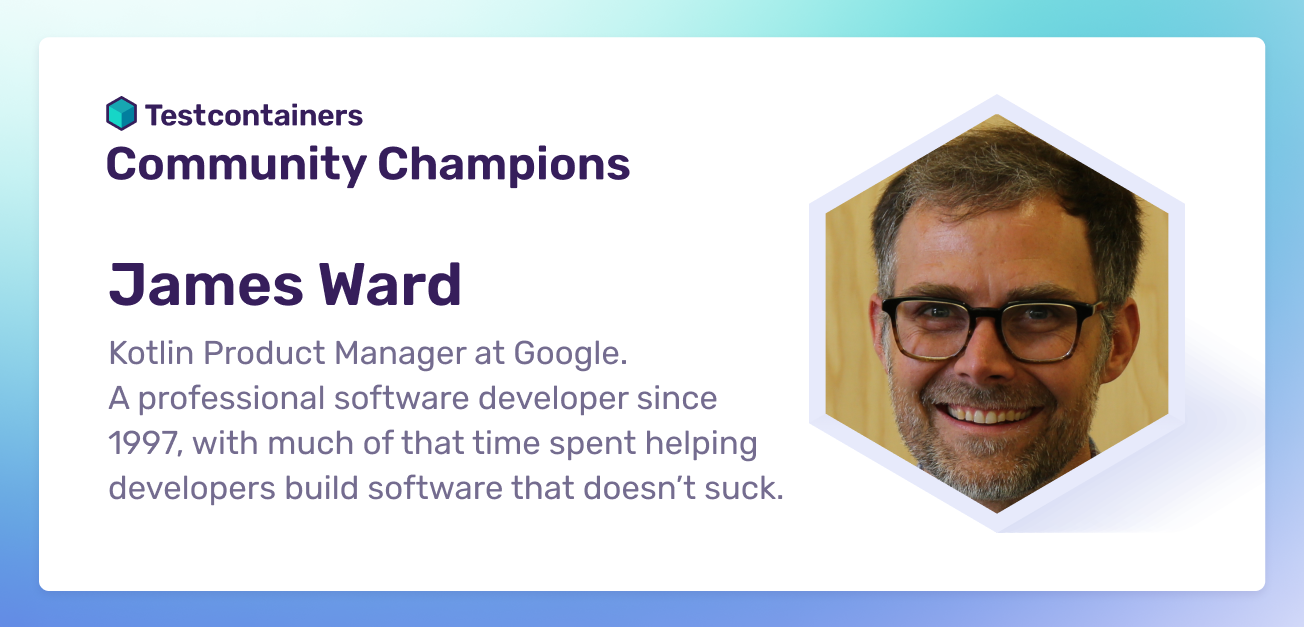
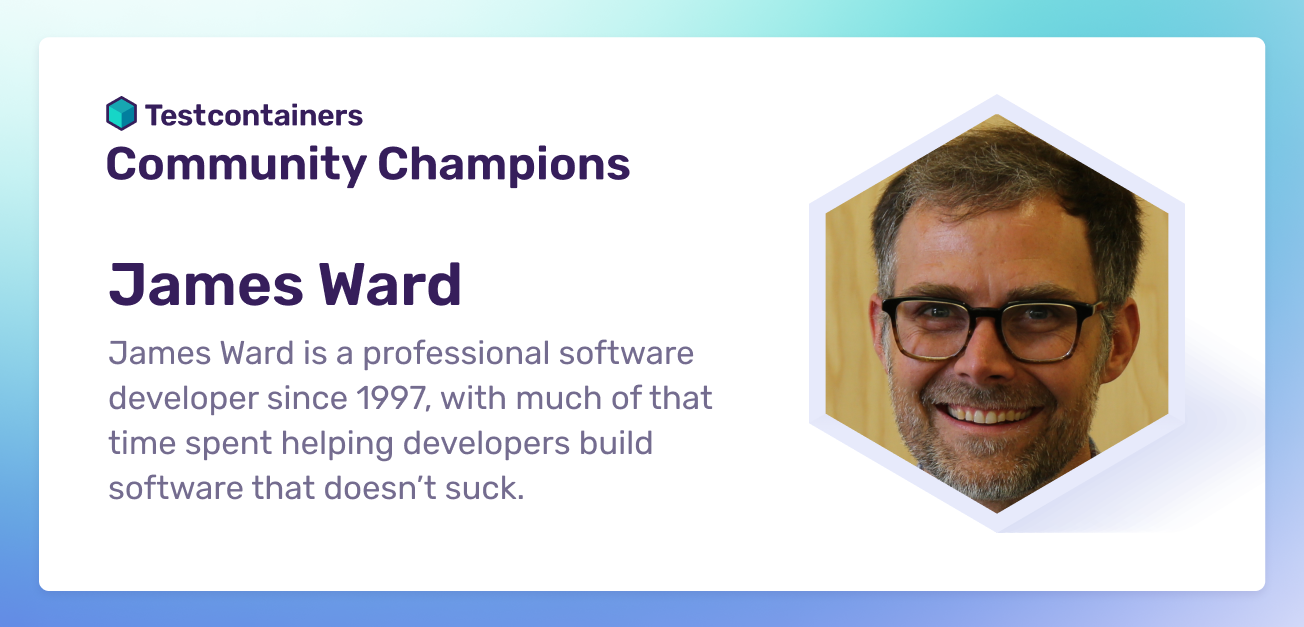
Update content

Changed region(s): [[0.0613, 0.5455, 0.5828, 0.7273], [0.092, 0.7576, 0.6135, 0.8182]]

diff --git a/content/community-champions/cora-iberkleid.md b/content/community-champions/cora-iberkleid.md
@@ -14,13 +14,13 @@ Cora Iberkleid is a Developer Advocate for Modern Applications at VMware Tanzu, 
 
 ## Q&A
 ### What were your first experiences with Testcontainers?
-I initially learned about Testcontainers through a collaboration with my dear friend and colleague, Maria Gabriella Brodi, as we sought to develop a strategy for achieving production-like conditions in early development and local testing stages. This effort culminated in a conference talk that we have presented jointly several times, and in which we focus on the versatility, power, and ease of use of Testcontainers.
+I initially learned about Testcontainers through a collaboration with my friend and colleague, Maria Gabriella Brodi, as we sought to develop a strategy for achieving production-like conditions in early development and local testing stages. This effort culminated in a conference talk that we have presented jointly several times, and in which we focus on the versatility, power, and ease of use of Testcontainers.
 
 ### What’s your favourite Testcontainers module?
 It may sound simple but a traditional DB is always so useful! I am also really happy to see an example of support for [Cloud Native Buildpacks](https://github.com/eddumelendez/testcontainers-buildpacks-examples/blob/main/src/test/java/com/example/testcontainersbuildpacksexamples/BuildpackTest.java)!
 
 ### What are your favourite features for Testcontainers?
-I love that all connection plumbing is done quietly and elegantly behind the scenes. I also love how easy it is to choose whether containers are discarded or reused between tests and between test runs. I also love the ability to dynamically set the commands that will run within a simple OS-base container. Most recently, I am loving the idea of using Testcontainers to start up containers not just for unit tests tied to a Unit lifecycle, but as a way to start resources for the main application as well!
+I love that all connection plumbing is done quietly and elegantly behind the scenes. I also love how easy it is to choose whether containers are discarded or reused between tests and between test runs. I also love the ability to dynamically set the commands that will run within a simple OS-base container. Most recently, I am loving the idea of using Testcontainers to start up containers not just for unit tests tied to a JUnit lifecycle, but as a way to start resources for the main application as well!
 
 ### What’s the most memorable bug you managed to reproduce with a test using Testcontainers?
 Identifying SQL that is not supported in H2 but is supported in Postgres. Also, identifying code that needs fallbacks to improve resiliency by testing with the Toxiproxy Module. And running my own app as the container under test in order to validate my own API contracts.

diff --git a/content/community-champions/james-ward.md b/content/community-champions/james-ward.md
@@ -16,7 +16,7 @@ socialLinks:
     url: https://linkedin.com/in/jamesward
 ---
 ## Bio
-James Ward is a professional software developer since 1997, with much of that time spent helping developers build software that doesn't suck. A Typed Pure Functional Programming zealot who often compromises on his ideals to just get stuff done. Currently the Kotlin Product Manager at Google.
+James Ward is a professional software developer since 1997, with much of that time spent helping developers build software that doesn't suck. A Typed Pure Functional Programming zealot who often compromises on his ideals to just get stuff done.
 
 ## Q&A
 ### What were your first experiences with Testcontainers?
